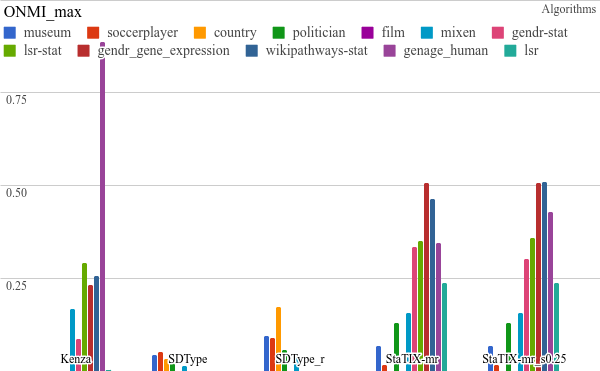
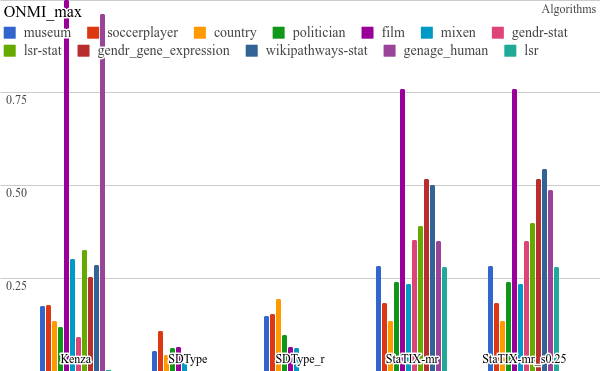
ONMImax plots updated

diff --git a/README.md b/README.md
@@ -47,6 +47,8 @@ Higher is better.
 #### [Overlapping NMI](https://github.com/eXascaleInfolab/OvpNMI)
 ![ONMI_max](images/ONMI_max_Algs.png)
 Higher is better.
+![ONMI_max](images/ONMI_max_StaTIX.png)
+Higher is better.
 
 ### [Efficiency](https://bitbucket.org/lumais/exectime/)
 #### Execution Time
